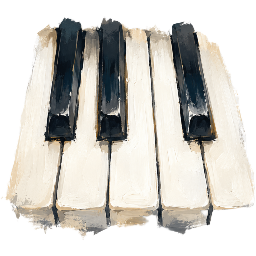
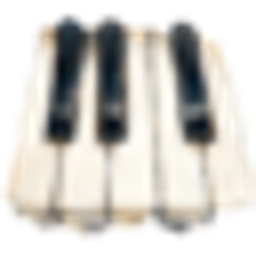
Save current changes

diff --git a/MmlEditor/Source/MainComponent.cpp b/MmlEditor/Source/MainComponent.cpp
@@ -2927,19 +2927,7 @@ void MainComponent::handlePianoRollNoteDoubleClick(int partIdx, int noteIdx, int
     if (textEnd <= textStart)
         return;
 
-    auto* ed = &trackEditors[partIdx];
-    if (!ed->isVisible()) return;
-
-    const auto editorHighlight = getEditorPlaybackHighlightColour(partIdx);
-    ed->setColour(juce::TextEditor::highlightColourId, editorHighlight);
-    ed->setColour(juce::TextEditor::highlightedTextColourId, CustomUI::getReadableTextColour(editorHighlight));
-    ed->grabKeyboardFocus();
-    ed->setCaretPosition(textStart);
-    ed->setHighlightedRegion(juce::Range<int>(textStart, textEnd));
-    ed->repaint();
-    playbackEditorHighlightStart[partIdx] = textStart;
-    playbackEditorHighlightEnd[partIdx] = textEnd;
-    playbackEditorHighlightActive = true;
+    focusThreeMleEditorAtTextRange(partIdx, textStart, textEnd);
 }
 
 
@@ -3261,12 +3249,79 @@ void MainComponent::applyPianoRollNoteVolume(int partIdx, int noteIdx, int volum
 }
 
 
+void MainComponent::focusThreeMleEditorAtTextRange(int partIdx, int textStart, int textEnd)
+{
+    if (isSubScreenVisible)
+        return;
+
+    if (partIdx < 0 || partIdx >= 4)
+        return;
+
+    auto* editor = &trackEditors[partIdx];
+    if (!editor->isVisible())
+        return;
+
+    const int textLength = editor->getText().length();
+    const int start = juce::jlimit(0, textLength, textStart);
+    const int end = juce::jlimit(start, textLength, textEnd);
+
+    if (end <= start)
+        return;
+
+    // Clear only the visual selection from the other editors while preserving their caret positions.
+    for (int i = 0; i < 4; ++i)
+    {
+        if (i == partIdx || !trackEditors[i].isVisible())
+            continue;
+
+        const int caret = juce::jlimit(0, trackEditors[i].getText().length(), trackEditors[i].getCaretPosition());
+        trackEditors[i].setHighlightedRegion(juce::Range<int>(caret, caret));
+    }
+
+    const auto editorHighlight = getEditorPlaybackHighlightColour(partIdx);
+    editor->setColour(juce::TextEditor::highlightColourId, editorHighlight);
+    editor->setColour(juce::TextEditor::highlightedTextColourId, CustomUI::getReadableTextColour(editorHighlight));
+
+    editor->grabKeyboardFocus();
+    editor->setCaretPosition(start);
+    editor->setHighlightedRegion(juce::Range<int>(start, end));
+    editor->repaint();
+
+    // Manual 3MLE note selection is not playback highlight.
+    // Keep this false so timer/updatePlaybackEditorHighlights does not clear it while stopped.
+    playbackEditorHighlightStart[partIdx] = start;
+    playbackEditorHighlightEnd[partIdx] = end;
+    playbackEditorHighlightActive = false;
+}
+
+void MainComponent::focusThreeMleEditorAtPianoRollNote(int partIdx, int noteIdx)
+{
+    if (isSubScreenVisible)
+        return;
+
+    if (partIdx < 0 || partIdx >= 4 || noteIdx < 0)
+        return;
+
+    const auto& sequence = banks[currentBankIndex].tracks[partIdx].sequence;
+    if (noteIdx >= static_cast<int>(sequence.size()))
+        return;
+
+    const auto& note = sequence[static_cast<size_t>(noteIdx)];
+    if (note.textStart < 0 || note.textEnd <= note.textStart)
+        return;
+
+    focusThreeMleEditorAtTextRange(partIdx, note.textStart, note.textEnd);
+}
+
 void MainComponent::handlePianoRollNoteSelected(int partIdx, int noteIdx) {
     selectedPianoRollPartIdx = partIdx;
     selectedPianoRollNoteIdx = noteIdx;
     selectedPianoRollNotes.clear();
     if (partIdx >= 0 && noteIdx >= 0)
+    {
         selectedPianoRollNotes.push_back({ partIdx, noteIdx });
+        focusThreeMleEditorAtPianoRollNote(partIdx, noteIdx);
+    }
 }
 
 void MainComponent::handlePianoRollNotesSelected(const std::vector<std::pair<int, int>>& notes) {
@@ -3275,6 +3330,7 @@ void MainComponent::handlePianoRollNotesSelected(const std::vector<std::pair<int
     {
         selectedPianoRollPartIdx = selectedPianoRollNotes.front().first;
         selectedPianoRollNoteIdx = selectedPianoRollNotes.front().second;
+        focusThreeMleEditorAtPianoRollNote(selectedPianoRollPartIdx, selectedPianoRollNoteIdx);
     }
     else
     {
@@ -3997,7 +4053,11 @@ void MainComponent::clearPlaybackEditorHighlights() {
     if (!playbackEditorHighlightActive) return;
     for (int i = 0; i < 4; ++i) {
         playbackEditorHighlightStart[i] = -1; playbackEditorHighlightEnd[i] = -1;
-        trackEditors[i].setHighlightedRegion(juce::Range<int>(0, 0));
+
+        // Do not force the caret to the beginning when clearing playback highlight.
+        // This was causing 3MLE note selection to jump back to position 0.
+        const int caret = juce::jlimit(0, trackEditors[i].getText().length(), trackEditors[i].getCaretPosition());
+        trackEditors[i].setHighlightedRegion(juce::Range<int>(caret, caret));
         trackEditors[i].repaint();
     }
     playbackEditorHighlightActive = false;

diff --git a/MmlEditor/Source/Main.cpp b/MmlEditor/Source/Main.cpp
@@ -1,10 +1,6 @@
 #include <JuceHeader.h>
 #include "MainComponent.h"
 
-#if JUCE_WINDOWS
-#include <windows.h>
-#endif
-
 class MmlEditorApplication : public juce::JUCEApplication
 {
 public:
@@ -55,7 +51,6 @@ public:
 #endif
 
             setVisible(true);
-            applyNativeWindowsIconFromResource();
         }
         void closeButtonPressed() override
         {
@@ -98,38 +93,7 @@ public:
             }
         }
 
-        void applyNativeWindowsIconFromResource()
-        {
-#if JUCE_WINDOWS
-            auto* peer = getPeer();
-            if (peer == nullptr)
-                return;
 
-            auto* hwnd = static_cast<HWND>(peer->getNativeHandle());
-            if (hwnd == nullptr)
-                return;
-
-            auto* instance = GetModuleHandle(nullptr);
-
-            HICON bigIcon = static_cast<HICON>(
-                LoadImage(instance, MAKEINTRESOURCE(1), IMAGE_ICON, 256, 256, LR_DEFAULTCOLOR));
-
-            HICON smallIcon = static_cast<HICON>(
-                LoadImage(instance, MAKEINTRESOURCE(1), IMAGE_ICON, 16, 16, LR_DEFAULTCOLOR));
-
-            if (bigIcon != nullptr)
-            {
-                SendMessage(hwnd, WM_SETICON, ICON_BIG, reinterpret_cast<LPARAM>(bigIcon));
-                SetClassLongPtr(hwnd, GCLP_HICON, reinterpret_cast<LONG_PTR>(bigIcon));
-            }
-
-            if (smallIcon != nullptr)
-            {
-                SendMessage(hwnd, WM_SETICON, ICON_SMALL, reinterpret_cast<LPARAM>(smallIcon));
-                SetClassLongPtr(hwnd, GCLP_HICONSM, reinterpret_cast<LONG_PTR>(smallIcon));
-            }
-#endif
-        }
 
         JUCE_DECLARE_NON_COPYABLE_WITH_LEAK_DETECTOR(MainWindow)
     };

diff --git a/MmlEditor/Source/MainComponent.h b/MmlEditor/Source/MainComponent.h
@@ -238,6 +238,8 @@ private:
     void zoomMabbiicoTimeline(float localMouseX, float wheelDeltaY);
     void seekToBeat(double beat);
     void handlePianoRollNoteDoubleClick(int partIdx, int noteIdx, int textStart, int textEnd);
+    void focusThreeMleEditorAtTextRange(int partIdx, int textStart, int textEnd);
+    void focusThreeMleEditorAtPianoRollNote(int partIdx, int noteIdx);
     void beginMabbiicoUndoTransaction();
     void endMabbiicoUndoTransaction();
     void beginMabbiicoMoveSnapshot();
